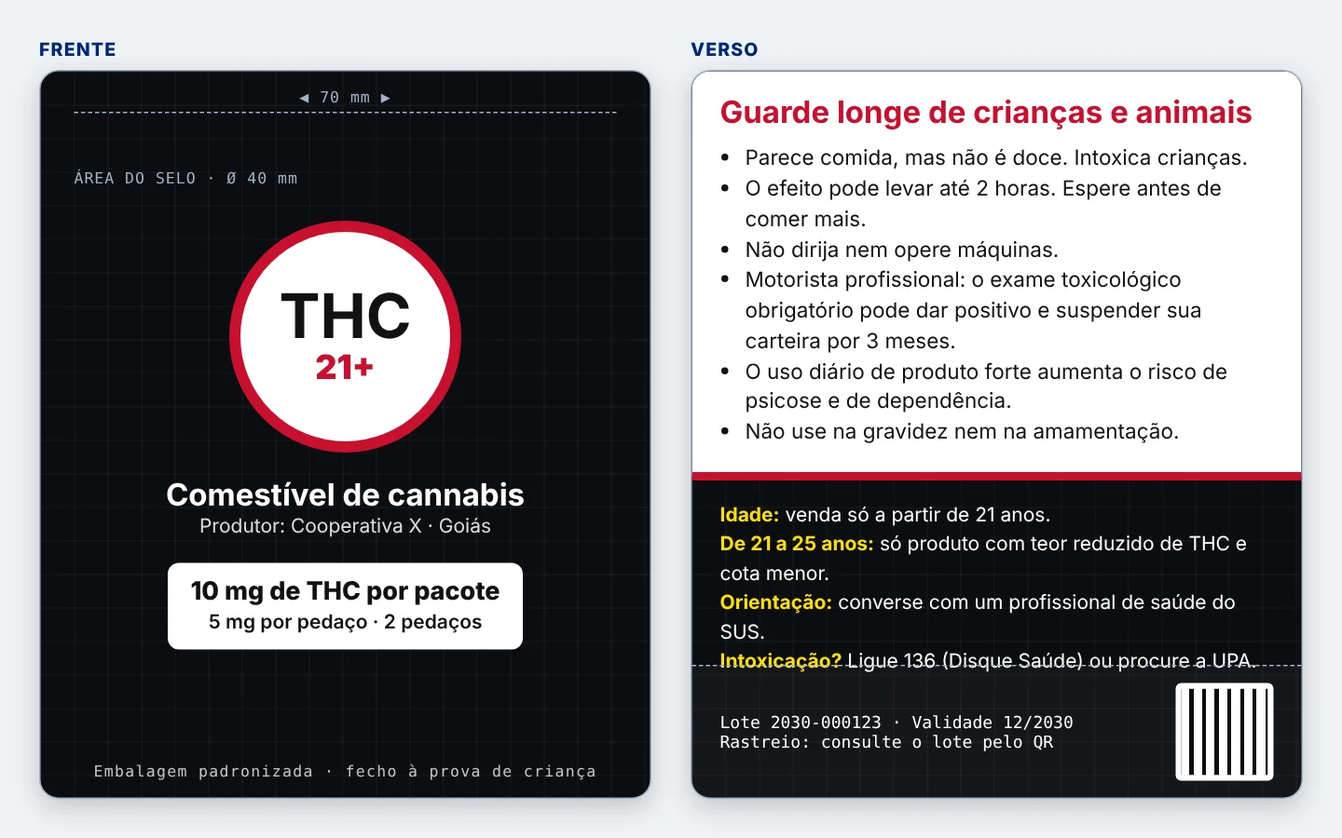
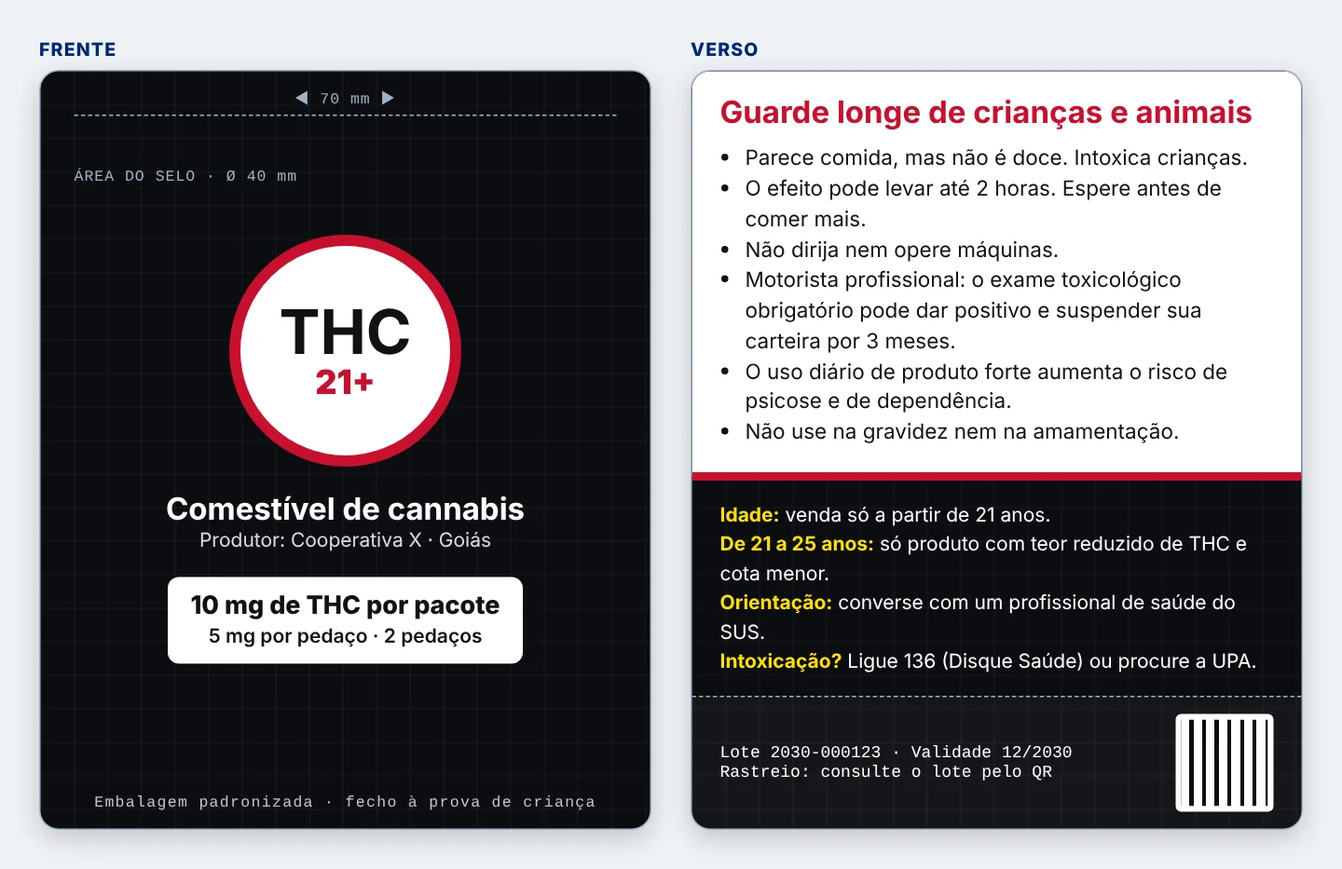
Cannabis: cartões de frase viram texto com link e corrige linha da embalagem
- Frases para compartilhar agora são texto com o link da proposta, com botões de Threads, Facebook, X, WhatsApp, copiar e o menu do celular. Sai a imagem PNG.
- Rodapé do verso da embalagem não fica mais por cima do texto da intoxicação.
- Mesmo ajuste na versão em inglês.

Claude-Session: https://claude.ai/code/session_01DQCuDCenhZkMdmN833DvCo

diff --git a/site/en/projetos/regulacao-da-cannabis/index.html b/site/en/projetos/regulacao-da-cannabis/index.html
@@ -171,7 +171,7 @@
     <h2>Rules on the product, not on the police</h2>
     <p>Checking every person who leaves a club is impossible. So protection starts with the packaging and at the counter.</p>
     <figure class="figura">
-      <img src="/projetos/regulacao-da-cannabis/embalagem.webp" width="1440" height="900" loading="lazy" alt="Mock-up of plain black packaging, in Portuguese. On the front, a THC 21+ seal, the producer and 10 mg of THC per pack. On the back, warnings: keep away from children, the effect can take up to 2 hours, don't drive, professional drivers can have their licence suspended by the drug test, daily use of strong products raises the risk of psychosis. Also the rule for ages 21 to 25, the public health hotline 136 and the traceable batch.">
+      <img src="/projetos/regulacao-da-cannabis/embalagem.webp" width="1440" height="933" loading="lazy" alt="Mock-up of plain black packaging, in Portuguese. On the front, a THC 21+ seal, the producer and 10 mg of THC per pack. On the back, warnings: keep away from children, the effect can take up to 2 hours, don't drive, professional drivers can have their licence suspended by the drug test, daily use of strong products raises the risk of psychosis. Also the rule for ages 21 to 25, the public health hotline 136 and the traceable batch.">
       <figcaption>Mock-up for debate, in Portuguese. The numbers are examples, not set rules.</figcaption>
     </figure>
     <div class="duas">
@@ -246,32 +246,41 @@
   <section class="capitulo revelar" id="compartilhe">
     <span class="ato">Chapter 9 · Share</span>
     <h2>Take the conversation to your feed</h2>
-    <p>Pick a card and send it to anyone you want to discuss this with.</p>
+    <p>Pick a quote and send it to anyone you want to discuss this with. The link to the proposal goes with it.</p>
     <div class="cartoes">
-      <div class="cartao cartao-compartilhar">
-        <img src="/en/projetos/regulacao-da-cannabis/cartao-1.png" width="1080" height="1080" loading="lazy" alt="I don't want to free up drugs. I want to take sales out of dealers' hands and add an age limit, rules and tax.">
+      <div class="cartao cartao-compartilhar" data-texto="I don't want to free up drugs. I want to take sales out of dealers' hands and add an age limit, rules and tax. #CannabisComRegra #SistemasMelhores">
+        <blockquote class="frase azul"><p><strong>I don't want to free up drugs.</strong> I want to take sales out of dealers' hands and add an age limit, rules and tax.</p><footer>Gabriel Rodrigues<br><span>gabriel-rodrigues.com/</span><wbr><span>en/</span><wbr><span>projetos/</span><wbr><span>regulacao-da-cannabis</span></footer></blockquote>
         <div class="acoes">
-          <button class="botao verde" type="button" data-compartilhar="/en/projetos/regulacao-da-cannabis/cartao-1.png" hidden>Share</button>
-          <a class="botao secundario" href="https://wa.me/?text=I%20don%27t%20want%20to%20free%20up%20drugs.%20I%20want%20to%20take%20sales%20out%20of%20dealers%27%20hands%20and%20add%20an%20age%20limit%2C%20rules%20and%20tax.%20https%3A%2F%2Fgabriel-rodrigues.com%2Fen%2Fprojetos%2Fregulacao-da-cannabis%2F">WhatsApp</a>
-          <a class="botao secundario" href="/en/projetos/regulacao-da-cannabis/cartao-1.png" download>Download</a>
+          <button class="botao verde" type="button" data-compartilhar hidden>Share</button>
+          <a class="botao secundario" href="https://www.threads.net/intent/post?text=I%20don%27t%20want%20to%20free%20up%20drugs.%20I%20want%20to%20take%20sales%20out%20of%20dealers%27%20hands%20and%20add%20an%20age%20limit%2C%20rules%20and%20tax.%20%23CannabisComRegra%20%23SistemasMelhores%20https%3A//gabriel-rodrigues.com/en/projetos/regulacao-da-cannabis/" target="_blank" rel="noopener">Threads</a>
+          <a class="botao secundario" href="https://www.facebook.com/sharer/sharer.php?u=https%3A//gabriel-rodrigues.com/en/projetos/regulacao-da-cannabis/" target="_blank" rel="noopener">Facebook</a>
+          <a class="botao secundario" href="https://x.com/intent/post?text=I%20don%27t%20want%20to%20free%20up%20drugs.%20I%20want%20to%20take%20sales%20out%20of%20dealers%27%20hands%20and%20add%20an%20age%20limit%2C%20rules%20and%20tax.%20%23CannabisComRegra%20%23SistemasMelhores&amp;url=https%3A//gabriel-rodrigues.com/en/projetos/regulacao-da-cannabis/" target="_blank" rel="noopener">X</a>
+          <a class="botao secundario" href="https://wa.me/?text=I%20don%27t%20want%20to%20free%20up%20drugs.%20I%20want%20to%20take%20sales%20out%20of%20dealers%27%20hands%20and%20add%20an%20age%20limit%2C%20rules%20and%20tax.%20%23CannabisComRegra%20%23SistemasMelhores%20https%3A//gabriel-rodrigues.com/en/projetos/regulacao-da-cannabis/" target="_blank" rel="noopener">WhatsApp</a>
+          <button class="botao secundario" type="button" data-copiar hidden>Copy text</button>
         </div>
         <p class="aviso-copiado" aria-live="polite"></p>
       </div>
-      <div class="cartao cartao-compartilhar">
-        <img src="/en/projetos/regulacao-da-cannabis/cartao-2.png" width="1080" height="1080" loading="lazy" alt="Today, whoever sells cannabis doesn't ask for ID. In my proposal, sales only from age 21, with tracked products and taxes paid.">
+      <div class="cartao cartao-compartilhar" data-texto="Today, whoever sells cannabis doesn't ask for ID. In my proposal, sales only from age 21, with tracked products and taxes paid. #CannabisComRegra #SistemasMelhores">
+        <blockquote class="frase verde"><p><strong>Today, whoever sells cannabis doesn't ask for ID.</strong> In my proposal, sales only from age 21, with tracked products and taxes paid.</p><footer>Gabriel Rodrigues<br><span>gabriel-rodrigues.com/</span><wbr><span>en/</span><wbr><span>projetos/</span><wbr><span>regulacao-da-cannabis</span></footer></blockquote>
         <div class="acoes">
-          <button class="botao verde" type="button" data-compartilhar="/en/projetos/regulacao-da-cannabis/cartao-2.png" hidden>Share</button>
-          <a class="botao secundario" href="https://wa.me/?text=Today%2C%20whoever%20sells%20cannabis%20doesn%27t%20ask%20for%20ID.%20In%20my%20proposal%2C%20sales%20only%20from%20age%2021%2C%20with%20tracked%20products%20and%20taxes%20paid.%20https%3A%2F%2Fgabriel-rodrigues.com%2Fen%2Fprojetos%2Fregulacao-da-cannabis%2F">WhatsApp</a>
-          <a class="botao secundario" href="/en/projetos/regulacao-da-cannabis/cartao-2.png" download>Download</a>
+          <button class="botao verde" type="button" data-compartilhar hidden>Share</button>
+          <a class="botao secundario" href="https://www.threads.net/intent/post?text=Today%2C%20whoever%20sells%20cannabis%20doesn%27t%20ask%20for%20ID.%20In%20my%20proposal%2C%20sales%20only%20from%20age%2021%2C%20with%20tracked%20products%20and%20taxes%20paid.%20%23CannabisComRegra%20%23SistemasMelhores%20https%3A//gabriel-rodrigues.com/en/projetos/regulacao-da-cannabis/" target="_blank" rel="noopener">Threads</a>
+          <a class="botao secundario" href="https://www.facebook.com/sharer/sharer.php?u=https%3A//gabriel-rodrigues.com/en/projetos/regulacao-da-cannabis/" target="_blank" rel="noopener">Facebook</a>
+          <a class="botao secundario" href="https://x.com/intent/post?text=Today%2C%20whoever%20sells%20cannabis%20doesn%27t%20ask%20for%20ID.%20In%20my%20proposal%2C%20sales%20only%20from%20age%2021%2C%20with%20tracked%20products%20and%20taxes%20paid.%20%23CannabisComRegra%20%23SistemasMelhores&amp;url=https%3A//gabriel-rodrigues.com/en/projetos/regulacao-da-cannabis/" target="_blank" rel="noopener">X</a>
+          <a class="botao secundario" href="https://wa.me/?text=Today%2C%20whoever%20sells%20cannabis%20doesn%27t%20ask%20for%20ID.%20In%20my%20proposal%2C%20sales%20only%20from%20age%2021%2C%20with%20tracked%20products%20and%20taxes%20paid.%20%23CannabisComRegra%20%23SistemasMelhores%20https%3A//gabriel-rodrigues.com/en/projetos/regulacao-da-cannabis/" target="_blank" rel="noopener">WhatsApp</a>
+          <button class="botao secundario" type="button" data-copiar hidden>Copy text</button>
         </div>
         <p class="aviso-copiado" aria-live="polite"></p>
       </div>
-      <div class="cartao cartao-compartilhar">
-        <img src="/en/projetos/regulacao-da-cannabis/cartao-3.png" width="1080" height="1080" loading="lazy" alt="Brazil's Supreme Court took possession out of criminal law in 2024. What's left is deciding who sells: organized crime or an inspected cooperative.">
+      <div class="cartao cartao-compartilhar" data-texto="Brazil's Supreme Court took possession out of criminal law in 2024. What's left is deciding who sells: organized crime or an inspected cooperative. #CannabisComRegra #SistemasMelhores">
+        <blockquote class="frase amarelo"><p><strong>Brazil's Supreme Court took possession out of criminal law in 2024.</strong> What's left is deciding who sells: organized crime or an inspected cooperative.</p><footer>Gabriel Rodrigues<br><span>gabriel-rodrigues.com/</span><wbr><span>en/</span><wbr><span>projetos/</span><wbr><span>regulacao-da-cannabis</span></footer></blockquote>
         <div class="acoes">
-          <button class="botao verde" type="button" data-compartilhar="/en/projetos/regulacao-da-cannabis/cartao-3.png" hidden>Share</button>
-          <a class="botao secundario" href="https://wa.me/?text=Brazil%27s%20Supreme%20Court%20took%20possession%20out%20of%20criminal%20law%20in%202024.%20What%27s%20left%20is%20deciding%20who%20sells%3A%20organized%20crime%20or%20an%20inspected%20cooperative.%20https%3A%2F%2Fgabriel-rodrigues.com%2Fen%2Fprojetos%2Fregulacao-da-cannabis%2F">WhatsApp</a>
-          <a class="botao secundario" href="/en/projetos/regulacao-da-cannabis/cartao-3.png" download>Download</a>
+          <button class="botao verde" type="button" data-compartilhar hidden>Share</button>
+          <a class="botao secundario" href="https://www.threads.net/intent/post?text=Brazil%27s%20Supreme%20Court%20took%20possession%20out%20of%20criminal%20law%20in%202024.%20What%27s%20left%20is%20deciding%20who%20sells%3A%20organized%20crime%20or%20an%20inspected%20cooperative.%20%23CannabisComRegra%20%23SistemasMelhores%20https%3A//gabriel-rodrigues.com/en/projetos/regulacao-da-cannabis/" target="_blank" rel="noopener">Threads</a>
+          <a class="botao secundario" href="https://www.facebook.com/sharer/sharer.php?u=https%3A//gabriel-rodrigues.com/en/projetos/regulacao-da-cannabis/" target="_blank" rel="noopener">Facebook</a>
+          <a class="botao secundario" href="https://x.com/intent/post?text=Brazil%27s%20Supreme%20Court%20took%20possession%20out%20of%20criminal%20law%20in%202024.%20What%27s%20left%20is%20deciding%20who%20sells%3A%20organized%20crime%20or%20an%20inspected%20cooperative.%20%23CannabisComRegra%20%23SistemasMelhores&amp;url=https%3A//gabriel-rodrigues.com/en/projetos/regulacao-da-cannabis/" target="_blank" rel="noopener">X</a>
+          <a class="botao secundario" href="https://wa.me/?text=Brazil%27s%20Supreme%20Court%20took%20possession%20out%20of%20criminal%20law%20in%202024.%20What%27s%20left%20is%20deciding%20who%20sells%3A%20organized%20crime%20or%20an%20inspected%20cooperative.%20%23CannabisComRegra%20%23SistemasMelhores%20https%3A//gabriel-rodrigues.com/en/projetos/regulacao-da-cannabis/" target="_blank" rel="noopener">WhatsApp</a>
+          <button class="botao secundario" type="button" data-copiar hidden>Copy text</button>
         </div>
         <p class="aviso-copiado" aria-live="polite"></p>
       </div>

diff --git a/site/projetos/regulacao-da-cannabis/index.html b/site/projetos/regulacao-da-cannabis/index.html
@@ -171,7 +171,7 @@
     <h2>Regra no produto, e não no policial</h2>
     <p>Fiscalizar cada pessoa que sai do clube é impossível. Então a proteção começa na embalagem e no balcão.</p>
     <figure class="figura">
-      <img src="/projetos/regulacao-da-cannabis/embalagem.webp" width="1440" height="900" loading="lazy" alt="Modelo de embalagem preta e lisa. Na frente, um selo THC 21+, o produtor e o teor de 10 mg de THC por pacote. No verso, alertas: guarde longe de crianças, o efeito pode levar até 2 horas, não dirija, motorista profissional pode ter a carteira suspensa pelo exame toxicológico, uso diário de produto forte aumenta o risco de psicose. Também a regra de 21 a 25 anos, o Disque Saúde 136 e o lote rastreável.">
+      <img src="/projetos/regulacao-da-cannabis/embalagem.webp" width="1440" height="933" loading="lazy" alt="Modelo de embalagem preta e lisa. Na frente, um selo THC 21+, o produtor e o teor de 10 mg de THC por pacote. No verso, alertas: guarde longe de crianças, o efeito pode levar até 2 horas, não dirija, motorista profissional pode ter a carteira suspensa pelo exame toxicológico, uso diário de produto forte aumenta o risco de psicose. Também a regra de 21 a 25 anos, o Disque Saúde 136 e o lote rastreável.">
       <figcaption>Modelo para debate. Os números são exemplos, não regra definida.</figcaption>
     </figure>
     <div class="duas">
@@ -246,32 +246,41 @@
   <section class="capitulo revelar" id="compartilhe">
     <span class="ato">Capítulo 9 · Compartilhe</span>
     <h2>Leve a conversa para as suas redes</h2>
-    <p>Escolha um cartão e mande para quem você quiser discutir o tema.</p>
+    <p>Escolha uma frase e mande para quem você quiser discutir o tema. O link da proposta vai junto.</p>
     <div class="cartoes">
-      <div class="cartao cartao-compartilhar">
-        <img src="/projetos/regulacao-da-cannabis/cartao-1.png" width="1080" height="1080" loading="lazy" alt="Não quero liberar droga. Quero tirar a venda da mão do traficante e pôr idade, regra e imposto.">
+      <div class="cartao cartao-compartilhar" data-texto="Não quero liberar droga. Quero tirar a venda da mão do traficante e pôr idade, regra e imposto. #CannabisComRegra #SistemasMelhores">
+        <blockquote class="frase azul"><p><strong>Não quero liberar droga.</strong> Quero tirar a venda da mão do traficante e pôr idade, regra e imposto.</p><footer>Gabriel Rodrigues<br><span>gabriel-rodrigues.com/</span><wbr><span>projetos/</span><wbr><span>regulacao-da-cannabis</span></footer></blockquote>
         <div class="acoes">
-          <button class="botao verde" type="button" data-compartilhar="/projetos/regulacao-da-cannabis/cartao-1.png" hidden>Compartilhar</button>
-          <a class="botao secundario" href="https://wa.me/?text=N%C3%A3o%20quero%20liberar%20droga.%20Quero%20tirar%20a%20venda%20da%20m%C3%A3o%20do%20traficante%20e%20p%C3%B4r%20idade%2C%20regra%20e%20imposto.%20https%3A%2F%2Fgabriel-rodrigues.com%2Fprojetos%2Fregulacao-da-cannabis%2F">WhatsApp</a>
-          <a class="botao secundario" href="/projetos/regulacao-da-cannabis/cartao-1.png" download>Baixar</a>
+          <button class="botao verde" type="button" data-compartilhar hidden>Compartilhar</button>
+          <a class="botao secundario" href="https://www.threads.net/intent/post?text=N%C3%A3o%20quero%20liberar%20droga.%20Quero%20tirar%20a%20venda%20da%20m%C3%A3o%20do%20traficante%20e%20p%C3%B4r%20idade%2C%20regra%20e%20imposto.%20%23CannabisComRegra%20%23SistemasMelhores%20https%3A//gabriel-rodrigues.com/projetos/regulacao-da-cannabis/" target="_blank" rel="noopener">Threads</a>
+          <a class="botao secundario" href="https://www.facebook.com/sharer/sharer.php?u=https%3A//gabriel-rodrigues.com/projetos/regulacao-da-cannabis/" target="_blank" rel="noopener">Facebook</a>
+          <a class="botao secundario" href="https://x.com/intent/post?text=N%C3%A3o%20quero%20liberar%20droga.%20Quero%20tirar%20a%20venda%20da%20m%C3%A3o%20do%20traficante%20e%20p%C3%B4r%20idade%2C%20regra%20e%20imposto.%20%23CannabisComRegra%20%23SistemasMelhores&amp;url=https%3A//gabriel-rodrigues.com/projetos/regulacao-da-cannabis/" target="_blank" rel="noopener">X</a>
+          <a class="botao secundario" href="https://wa.me/?text=N%C3%A3o%20quero%20liberar%20droga.%20Quero%20tirar%20a%20venda%20da%20m%C3%A3o%20do%20traficante%20e%20p%C3%B4r%20idade%2C%20regra%20e%20imposto.%20%23CannabisComRegra%20%23SistemasMelhores%20https%3A//gabriel-rodrigues.com/projetos/regulacao-da-cannabis/" target="_blank" rel="noopener">WhatsApp</a>
+          <button class="botao secundario" type="button" data-copiar hidden>Copiar texto</button>
         </div>
         <p class="aviso-copiado" aria-live="polite"></p>
       </div>
-      <div class="cartao cartao-compartilhar">
-        <img src="/projetos/regulacao-da-cannabis/cartao-2.png" width="1080" height="1080" loading="lazy" alt="Hoje quem vende maconha não pede documento. Na minha proposta, só vende com 21 anos, com produto rastreado e imposto pago.">
+      <div class="cartao cartao-compartilhar" data-texto="Hoje quem vende maconha não pede documento. Na minha proposta, só vende com 21 anos, com produto rastreado e imposto pago. #CannabisComRegra #SistemasMelhores">
+        <blockquote class="frase verde"><p><strong>Hoje quem vende maconha não pede documento.</strong> Na minha proposta, só vende com 21 anos, com produto rastreado e imposto pago.</p><footer>Gabriel Rodrigues<br><span>gabriel-rodrigues.com/</span><wbr><span>projetos/</span><wbr><span>regulacao-da-cannabis</span></footer></blockquote>
         <div class="acoes">
-          <button class="botao verde" type="button" data-compartilhar="/projetos/regulacao-da-cannabis/cartao-2.png" hidden>Compartilhar</button>
-          <a class="botao secundario" href="https://wa.me/?text=Hoje%20quem%20vende%20maconha%20n%C3%A3o%20pede%20documento.%20Na%20minha%20proposta%2C%20s%C3%B3%20vende%20com%2021%20anos%2C%20com%20produto%20rastreado%20e%20imposto%20pago.%20https%3A%2F%2Fgabriel-rodrigues.com%2Fprojetos%2Fregulacao-da-cannabis%2F">WhatsApp</a>
-          <a class="botao secundario" href="/projetos/regulacao-da-cannabis/cartao-2.png" download>Baixar</a>
+          <button class="botao verde" type="button" data-compartilhar hidden>Compartilhar</button>
+          <a class="botao secundario" href="https://www.threads.net/intent/post?text=Hoje%20quem%20vende%20maconha%20n%C3%A3o%20pede%20documento.%20Na%20minha%20proposta%2C%20s%C3%B3%20vende%20com%2021%20anos%2C%20com%20produto%20rastreado%20e%20imposto%20pago.%20%23CannabisComRegra%20%23SistemasMelhores%20https%3A//gabriel-rodrigues.com/projetos/regulacao-da-cannabis/" target="_blank" rel="noopener">Threads</a>
+          <a class="botao secundario" href="https://www.facebook.com/sharer/sharer.php?u=https%3A//gabriel-rodrigues.com/projetos/regulacao-da-cannabis/" target="_blank" rel="noopener">Facebook</a>
+          <a class="botao secundario" href="https://x.com/intent/post?text=Hoje%20quem%20vende%20maconha%20n%C3%A3o%20pede%20documento.%20Na%20minha%20proposta%2C%20s%C3%B3%20vende%20com%2021%20anos%2C%20com%20produto%20rastreado%20e%20imposto%20pago.%20%23CannabisComRegra%20%23SistemasMelhores&amp;url=https%3A//gabriel-rodrigues.com/projetos/regulacao-da-cannabis/" target="_blank" rel="noopener">X</a>
+          <a class="botao secundario" href="https://wa.me/?text=Hoje%20quem%20vende%20maconha%20n%C3%A3o%20pede%20documento.%20Na%20minha%20proposta%2C%20s%C3%B3%20vende%20com%2021%20anos%2C%20com%20produto%20rastreado%20e%20imposto%20pago.%20%23CannabisComRegra%20%23SistemasMelhores%20https%3A//gabriel-rodrigues.com/projetos/regulacao-da-cannabis/" target="_blank" rel="noopener">WhatsApp</a>
+          <button class="botao secundario" type="button" data-copiar hidden>Copiar texto</button>
         </div>
         <p class="aviso-copiado" aria-live="polite"></p>
       </div>
-      <div class="cartao cartao-compartilhar">
-        <img src="/projetos/regulacao-da-cannabis/cartao-3.png" width="1080" height="1080" loading="lazy" alt="O STF já tirou o porte do crime em 2024. Falta decidir quem vende: o crime ou uma cooperativa fiscalizada.">
+      <div class="cartao cartao-compartilhar" data-texto="O STF já tirou o porte do crime em 2024. Falta decidir quem vende: o crime ou uma cooperativa fiscalizada. #CannabisComRegra #SistemasMelhores">
+        <blockquote class="frase amarelo"><p><strong>O STF já tirou o porte do crime em 2024.</strong> Falta decidir quem vende: o crime ou uma cooperativa fiscalizada.</p><footer>Gabriel Rodrigues<br><span>gabriel-rodrigues.com/</span><wbr><span>projetos/</span><wbr><span>regulacao-da-cannabis</span></footer></blockquote>
         <div class="acoes">
-          <button class="botao verde" type="button" data-compartilhar="/projetos/regulacao-da-cannabis/cartao-3.png" hidden>Compartilhar</button>
-          <a class="botao secundario" href="https://wa.me/?text=O%20STF%20j%C3%A1%20tirou%20o%20porte%20do%20crime%20em%202024.%20Falta%20decidir%20quem%20vende%3A%20o%20crime%20ou%20uma%20cooperativa%20fiscalizada.%20https%3A%2F%2Fgabriel-rodrigues.com%2Fprojetos%2Fregulacao-da-cannabis%2F">WhatsApp</a>
-          <a class="botao secundario" href="/projetos/regulacao-da-cannabis/cartao-3.png" download>Baixar</a>
+          <button class="botao verde" type="button" data-compartilhar hidden>Compartilhar</button>
+          <a class="botao secundario" href="https://www.threads.net/intent/post?text=O%20STF%20j%C3%A1%20tirou%20o%20porte%20do%20crime%20em%202024.%20Falta%20decidir%20quem%20vende%3A%20o%20crime%20ou%20uma%20cooperativa%20fiscalizada.%20%23CannabisComRegra%20%23SistemasMelhores%20https%3A//gabriel-rodrigues.com/projetos/regulacao-da-cannabis/" target="_blank" rel="noopener">Threads</a>
+          <a class="botao secundario" href="https://www.facebook.com/sharer/sharer.php?u=https%3A//gabriel-rodrigues.com/projetos/regulacao-da-cannabis/" target="_blank" rel="noopener">Facebook</a>
+          <a class="botao secundario" href="https://x.com/intent/post?text=O%20STF%20j%C3%A1%20tirou%20o%20porte%20do%20crime%20em%202024.%20Falta%20decidir%20quem%20vende%3A%20o%20crime%20ou%20uma%20cooperativa%20fiscalizada.%20%23CannabisComRegra%20%23SistemasMelhores&amp;url=https%3A//gabriel-rodrigues.com/projetos/regulacao-da-cannabis/" target="_blank" rel="noopener">X</a>
+          <a class="botao secundario" href="https://wa.me/?text=O%20STF%20j%C3%A1%20tirou%20o%20porte%20do%20crime%20em%202024.%20Falta%20decidir%20quem%20vende%3A%20o%20crime%20ou%20uma%20cooperativa%20fiscalizada.%20%23CannabisComRegra%20%23SistemasMelhores%20https%3A//gabriel-rodrigues.com/projetos/regulacao-da-cannabis/" target="_blank" rel="noopener">WhatsApp</a>
+          <button class="botao secundario" type="button" data-copiar hidden>Copiar texto</button>
         </div>
         <p class="aviso-copiado" aria-live="polite"></p>
       </div>

diff --git a/site/projetos/regulacao-da-cannabis/compartilhar.js b/site/projetos/regulacao-da-cannabis/compartilhar.js
@@ -1,41 +1,41 @@
-// Cartões para compartilhar (PT e EN). Cada botão [data-compartilhar] tenta, nesta ordem:
-// 1. compartilhar a imagem do cartão pelo menu do celular (Web Share API com arquivo);
-// 2. compartilhar só o texto e o link;
-// 3. copiar o texto e o link para a área de transferência.
-// O link do WhatsApp ao lado funciona sempre, sem JavaScript.
+// Frases para compartilhar (PT e EN). Cada cartão tem o texto em data-texto.
+// Os links de Threads, Facebook, X e WhatsApp funcionam sem JavaScript.
+// Com JavaScript, aparecem mais dois botões:
+// [data-compartilhar] abre o menu de compartilhar do celular (Web Share API) com texto e link;
+// [data-copiar] copia o texto e o link para colar em qualquer rede.
 (() => {
   const ingles = document.documentElement.lang.startsWith("en");
   const copiado = ingles ? "Text and link copied. Paste it wherever you want." : "Texto e link copiados. É só colar onde quiser.";
   const url = location.origin + location.pathname;
 
-  document.querySelectorAll("[data-compartilhar]").forEach((botao) => {
-    const cartao = botao.closest(".cartao-compartilhar");
-    const texto = cartao.querySelector("img").alt;
+  document.querySelectorAll(".cartao-compartilhar").forEach((cartao) => {
+    const texto = cartao.dataset.texto;
     const aviso = cartao.querySelector(".aviso-copiado");
-    botao.hidden = false;
-    botao.addEventListener("click", async () => {
+    const copiar = async () => {
       try {
-        const resposta = await fetch(botao.dataset.compartilhar);
-        const arquivo = new File([await resposta.blob()], botao.dataset.compartilhar.split("/").pop(), { type: "image/png" });
-        if (navigator.canShare && navigator.canShare({ files: [arquivo] })) {
-          await navigator.share({ files: [arquivo], text: `${texto} ${url}` });
-          return;
-        }
-        if (navigator.share) {
-          await navigator.share({ text: texto, url });
-          return;
-        }
         await navigator.clipboard.writeText(`${texto} ${url}`);
         aviso.textContent = copiado;
-      } catch (erro) {
-        if (erro.name === "AbortError") return;
-        try {
-          await navigator.clipboard.writeText(`${texto} ${url}`);
-          aviso.textContent = copiado;
-        } catch {
-          aviso.textContent = "";
-        }
+      } catch {
+        aviso.textContent = "";
       }
-    });
+    };
+
+    const botaoCopiar = cartao.querySelector("[data-copiar]");
+    if (navigator.clipboard) {
+      botaoCopiar.hidden = false;
+      botaoCopiar.addEventListener("click", copiar);
+    }
+
+    const botaoCompartilhar = cartao.querySelector("[data-compartilhar]");
+    if (navigator.share) {
+      botaoCompartilhar.hidden = false;
+      botaoCompartilhar.addEventListener("click", async () => {
+        try {
+          await navigator.share({ text: texto, url });
+        } catch (erro) {
+          if (erro.name !== "AbortError") copiar();
+        }
+      });
+    }
   });
 })();

diff --git a/site/projetos/regulacao-da-cannabis/pagina.css b/site/projetos/regulacao-da-cannabis/pagina.css
@@ -96,7 +96,15 @@ p { margin: 0 0 var(--espaco-3); }
 /* Cartões para compartilhar */
 .cartoes { display: grid; grid-template-columns: repeat(auto-fit, minmax(220px, 1fr)); gap: var(--espaco-4); margin-top: var(--espaco-4); }
 .cartao-compartilhar { padding: var(--espaco-3); display: grid; gap: var(--espaco-3); }
-.cartao-compartilhar img { width: 100%; height: auto; display: block; border-radius: var(--forma-opcao); }
+.frase { margin: 0; padding: var(--espaco-5) var(--espaco-4); border-radius: var(--forma-opcao); display: grid; gap: var(--espaco-4); }
+.frase p { margin: 0; font-weight: 700; font-size: var(--tamanho-4); line-height: 1.3; text-wrap: pretty; }
+.frase strong { display: block; font-weight: 900; margin-bottom: var(--espaco-2); }
+.frase footer { font-size: var(--tamanho-1); opacity: .9; }
+.frase footer span { white-space: nowrap; }
+.frase.azul { background: var(--azul); color: var(--branco); }
+.frase.azul strong { color: var(--amarelo); }
+.frase.verde { background: var(--verde-fundo); color: var(--branco); }
+.frase.amarelo { background: var(--amarelo); color: var(--azul); }
 .cartao-compartilhar .acoes { display: flex; flex-wrap: wrap; gap: var(--espaco-2); }
 .cartao-compartilhar .botao { flex: 1 1 auto; text-align: center; padding-inline: var(--espaco-3); }
 .aviso-copiado { font-size: var(--tamanho-1); color: var(--verde-escuro); min-height: 1.2em; margin: 0; }
